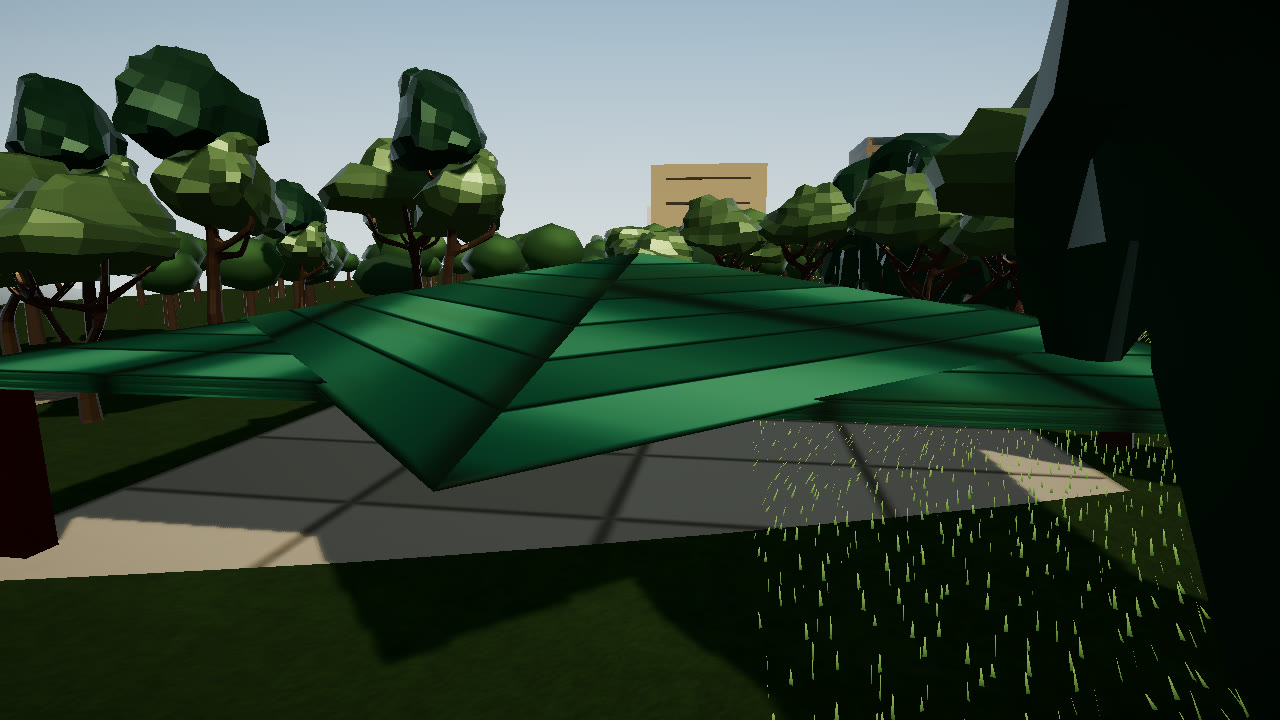
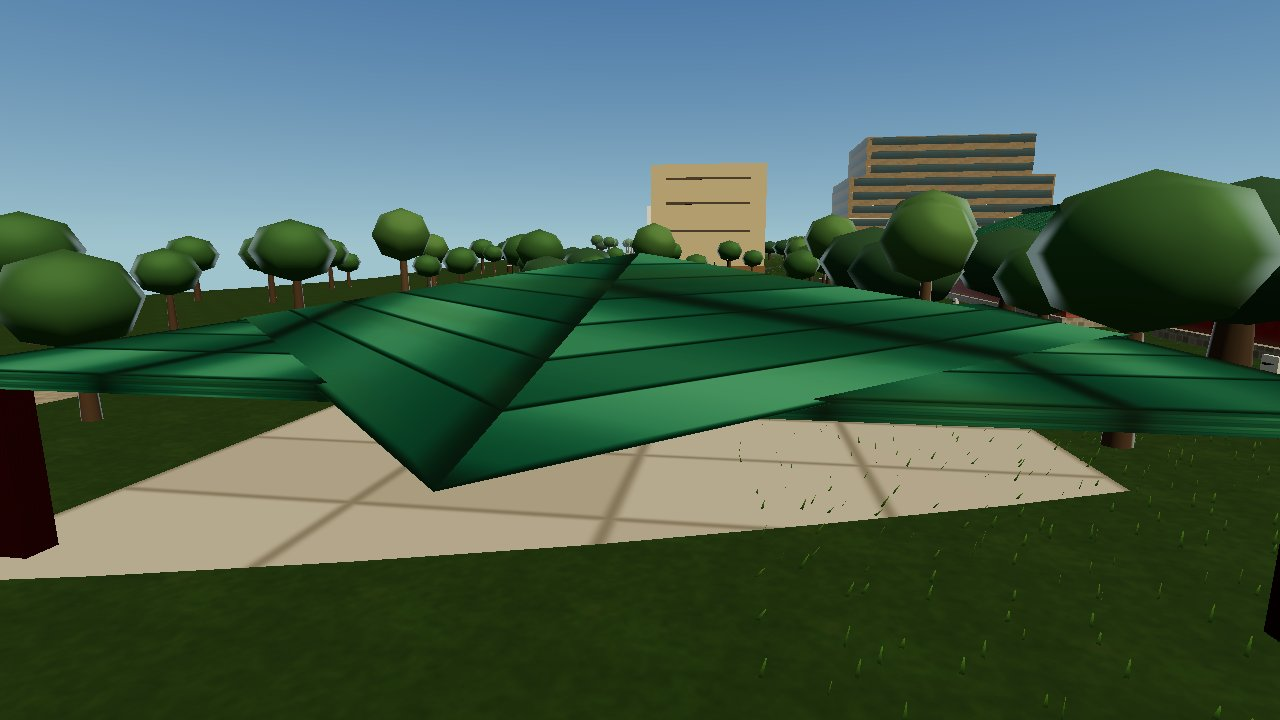
Record the open garden pavilion on this host.
The pavilion shot is from this machine. Court lines, wet colours, and the tree clearing stay.

diff --git a/docs/integration/HANDOFF.md b/docs/integration/HANDOFF.md
@@ -4,18 +4,18 @@
 
 ## 現在
 
-- 這次把五虎崗畫成兩塊有邊線、中線和球網的場，排球場有一圈邊線。接到 `origin/main` `9dd707e`。遊戲程式是 `27ceb69`。
-- 標線都在草皮裡面。1280×720 與 390×780 都看得到。雨後草皮仍較深，標線還在。樹仍在場外。標線尺寸仍是 estimated。
-- 跨系統路線在 `http://127.0.0.1:8148/` 通過：大門經驗 20、筆記 19；補給後經驗 44、筆記 21、學期期中；突襲小考 65→45；第二客戶端看到期中；`revision_conflict`；斷線時雲端經驗停在 47；登出 401。`pageErrors` 空。
-- PR #122 現在是 `2f7667b`。遊戲差是測試用的 `getCamera`、他們的七區路點腳本，以及窄螢幕互動鈕 `bottom: 176px`。觸控窄螢幕後面那條規則仍是 `100px`。路點本身已經在主遊戲裡。不要單獨合併，也不要帶進 `docs/full-integration`。
+- 這次把覺軒花園改成四根角柱和綠瓦頂，中間可以走。接到 `origin/main` `ebf0cde`。遊戲程式是 `80a8159`。
+- 碰撞只在柱子。另一筆覺軒仍是坡頂。亭子周圍 6 m 不種散佈的樹。1280×720 看得到紅柱、瓦頂和鋪面。外形仍是 estimated。球場標線留著。
+- 跨系統路線在 `http://127.0.0.1:8149/` 通過：大門經驗 20、筆記 19；補給後經驗 44、筆記 21、學期期中；突襲小考 65→45；第二客戶端看到期中；`revision_conflict`；斷線時雲端經驗停在 47；登出 401。`pageErrors` 空。
+- PR #122 現在是 `cca9e10`。新增的是他們的顧衡失敗選項腳本。遊戲差仍是測試用的 `getCamera` 和窄螢幕互動鈕。不要單獨合併，也不要帶進 `docs/full-integration`。
 
-## 本輪已驗證（綜合球場標線）
+## 本輪已驗證（覺軒花園）
 
-`node --test scripts/court-lines.test.mjs` 通過。`npm test` 312 通過。`node --experimental-transform-types scripts/integration-route.mjs` 走 `http://127.0.0.1:8148/`。幀時間是 SwiftShader。標線尺寸是 estimated。
+`node --test scripts/garden-pavilion.test.mjs` 通過。`npm test` 313 通過。`node --experimental-transform-types scripts/integration-route.mjs` 走 `http://127.0.0.1:8149/`。幀時間是 SwiftShader。亭子外形是 estimated。
 
 ## 下一步
 
-先 `git fetch`。標線已在這條整合分支，遊戲程式是 `27ceb69`。靜態產物是 `AdventureApp-DCYaPlp2.js`。PR #32 的 `1fc5887` 仍不合併。整合 PR 是 #149。來源 `06a75dc` 不是祖先，不要單獨合併 PR #135。不要單獨合併 PR #122。PR #147、#146、#144、#143、#142、#141、#140、#138、#139、#131、#137、#128、#133、#129、#110、#108、#107、#105、#102、#101、#99、#97、#96、#93、#91、#90、#88、#86、#85、#82、#80、#79、#77、#75、#73、#72、#70、#68、#67、#65、#63、#61、#59、#56、#54、#53、#51 的程式已經在更早的整合裡，也不要再單獨合併。下一項是涼亭（PR #145，`193f29d`），它改 `ContextStructures.tsx` 和植栽。然後是坡道欄杆（PR #132，`1dce114`）、海事博物館船首（PR #127，`d0fd98b`）、會文館（PR #111，`412b130`）、司令臺台面（PR #113，`f2750c7`）、低畫質行人（PR #115，`9672ff3`）、美術傳輸預算（PR #116，`9a3d594`）、宮燈大道四個時段（PR #118，`266e4b7`）、宮燈鏡頭（PR #121，`3ce5f17`）、路燈燈頭（PR #124，`2b45515`）。先看它們目前的 head，再各自整合，不要單獨合併。三角形仍用 `7507c59` 那次重測。
+先 `git fetch`。涼亭已接到這條整合分支，遊戲程式是 `80a8159`。靜態產物是 `AdventureApp-DzP7Xkfy.js`。PR #32 的 `1fc5887` 仍不合併。來源 `193f29d` 不是祖先，不要單獨合併 PR #145。不要單獨合併 PR #122。PR #149、#147、#146、#144、#143、#142、#141、#140、#138、#139、#135、#131、#137、#128、#133、#129、#110、#108、#107、#105、#102、#101、#99、#97、#96、#93、#91、#90、#88、#86、#85、#82、#80、#79、#77、#75、#73、#72、#70、#68、#67、#65、#63、#61、#59、#56、#54、#53、#51 的程式已經在更早的整合裡，也不要再單獨合併。下一項是小地圖課名（PR #148，`9f89d1c`），然後是坡道欄杆（PR #132，`1dce114`）、海事博物館船首（PR #127，`d0fd98b`）、會文館（PR #111，`412b130`）、司令臺台面（PR #113，`f2750c7`）、低畫質行人（PR #115，`9672ff3`）、美術傳輸預算（PR #116，`9a3d594`）、宮燈大道四個時段（PR #118，`266e4b7`）、宮燈鏡頭（PR #121，`3ce5f17`）、路燈燈頭（PR #124，`2b45515`）。先看它們目前的 head，再各自整合，不要單獨合併。三角形仍用 `7507c59` 那次重測。
 
 INT-01 維持不動。不要新增學期選擇，也不要做第二套獎勵帳。
 

diff --git a/docs/integration/STATUS.md b/docs/integration/STATUS.md
@@ -1,13 +1,13 @@
 # 整合狀態
 
-更新：2026-11-12。五虎崗綜合球場畫成兩塊有邊線、中線和球網的場。排球場有一圈邊線。標線尺寸仍是估計。雨後草皮仍會變暗。幀時間仍是 SwiftShader。
+更新：2026-11-12。覺軒花園改成四根角柱和綠瓦頂，中間可以走。另一筆覺軒仍是坡頂。外形仍是估計。幀時間仍是 SwiftShader。
 本文件只記實際程式、PR 與本輪驗收。不把 M1 或 M2 當成整款遊戲完成，也不以 PR 或文件數量估算完成率。
 
 ## 三條線
 
 | 線 | 目前成果 | 開放 PR | 狀態 |
 | --- | --- | --- | --- |
-| 美術與場景 | 五虎崗是兩塊有邊線和球網的場。排球場有邊線。雨後草皮仍會變暗。 | 來源 PR #135 `06a75dc`。整合 PR #149 | `merged` |
+| 美術與場景 | 覺軒花園是四根角柱和綠瓦頂，中間可以走。另一筆覺軒仍是坡頂。 | 來源 PR #145 `193f29d`。整合尚未開 PR | `verified` |
 | 後端 | 雲端存檔接受既有背包的 `loadout`、`gear`、隔離物品和手持設施，並拒絕白名單以外的欄位。沒有這些欄位的舊存檔仍可上傳。 | 來源 `a76918e`。整合 PR #144 | `merged` |
 | 內容 | 十二名虛構的教授與系主任可以在估計的崗位交談。跨學院的選擇會改後面的句子。獎勵仍進既有背包，而且只記一次。 | 來源 PR #131 `246eadf`。整合 PR #139 | `merged` |
 
@@ -15,15 +15,15 @@
 
 ## 本輪範圍
 
-五虎崗綜合球場是兩塊有邊線、中線和球網的場。排球場有一圈邊線。標線都在草皮裡面。1280×720 與 390×780 都看得到兩塊白線場，樹仍在場外。雨後草皮較深，標線還在。標線尺寸仍是 estimated。田徑場和停車場沒有這些線。
+覺軒花園是四根角柱和綠瓦頂，中間可以走，碰撞只在柱子。另一筆覺軒仍是坡頂。亭子周圍 6 m 不種散佈的樹。1280×720 看得到綠瓦頂、紅柱和鋪面。390×780 看得到瓦頂和鋪面。外形仍是 estimated。球場標線留著。
 
 ## 路線
 
 | 項目 | 狀態 |
 | --- | --- |
-| 已製作 | 五虎崗兩塊標線場，排球場一圈邊線 |
-| 已驗證 | 靜態頁 `http://127.0.0.1:8148/`。1280×720 與 390×780 看得到兩塊白線場。`npm test` 312 通過。跨系統路線在同一站，`pageErrors` 空 |
-| 已合併 | 是。遊戲程式 `27ceb69`。整合 PR #149。`main` 未受保護、沒有必須的 check |
+| 已製作 | 覺軒花園四根角柱、綠瓦頂，中間可走 |
+| 已驗證 | 靜態頁 `http://127.0.0.1:8149/`。1280×720 看得到紅柱、瓦頂和鋪面。`npm test` 313 通過。跨系統路線在同一站，`pageErrors` 空 |
+| 已合併 | 否。遊戲程式 `80a8159`。`main` 未受保護、沒有必須的 check |
 | 已部署 | 否 |
 
 ## 尚未完成的遊戲範圍

diff --git a/docs/integration/CONTRACTS.md b/docs/integration/CONTRACTS.md
@@ -70,7 +70,7 @@ URL 帶內容雜湊。幾何與 atlas 共享。卸載只走 `releaseArtInstance`
 
 教授與系主任也走這份存檔和既有 `grantQuestReward`。十二名都是虛構角色，崗位是門口外推的估計位置。同一個任務只付一次。`MAIN_INTEGRATION` 仍是 false。
 
-路燈中心若落在實體裡，會沿最近的一面推到牆外 1.2 m。圖書館名牌朝南，貼在南牆外側。燈位仍是 estimated。圖書館前的坡道從廣場升約 1.05 m 到台基，人走在這道坡上，坡面網格用同一個高度。坡度仍是 estimated。散佈的樹不種進球場、田徑場和停車場，外緣再留 3 m。植株位置仍是 estimated。沒有貼圖的球場、停車場和跑道在雨後把顏色乘小，亮度下降、粗糙度下降。晴天顏色不變。這些顏色比材質庫的濕灰還深，所以不把灰色混進去。不是實測日照。五虎崗綜合球場是兩塊有邊線、中線和球網的場，排球場有一圈邊線。標線都在草皮裡面。標線尺寸仍是 estimated。田徑場和停車場沒有這些線。
+路燈中心若落在實體裡，會沿最近的一面推到牆外 1.2 m。圖書館名牌朝南，貼在南牆外側。燈位仍是 estimated。圖書館前的坡道從廣場升約 1.05 m 到台基，人走在這道坡上，坡面網格用同一個高度。坡度仍是 estimated。散佈的樹不種進球場、田徑場和停車場，外緣再留 3 m。植株位置仍是 estimated。沒有貼圖的球場、停車場和跑道在雨後把顏色乘小，亮度下降、粗糙度下降。晴天顏色不變。這些顏色比材質庫的濕灰還深，所以不把灰色混進去。不是實測日照。五虎崗綜合球場是兩塊有邊線、中線和球網的場，排球場有一圈邊線。標線都在草皮裡面。標線尺寸仍是 estimated。田徑場和停車場沒有這些線。覺軒花園是四根角柱和綠瓦頂，中間可以走，碰撞只在柱子。另一筆覺軒仍是坡頂。亭子周圍 6 m 不種散佈的樹。外形仍是 estimated。
 
 同一條高畫質路線在遊戲程式 `7507c59` 的靜態頁重測：標題 1,204,683、戶外 1,562,527、戰鬥 1,495,745、返回 1,437,689，都低於 1.6 M。室內 46,548。幀時間是這台 SwiftShader，不是手機或 RTX 3060。手機圖示只改 CSS，沒有重測三角形。
 

diff --git a/docs/integration/VALIDATION.md b/docs/integration/VALIDATION.md
@@ -669,6 +669,14 @@ PR #122 的 head 在這輪又改到 `48b1ac6`。和 `main` 比，遊戲程式沒
 
 瀏覽器 `http://127.0.0.1:8148/`。1280×720 與 390×780 都看得到兩塊白線場。雨後草皮較深，標線還在。頁面無錯誤。同一站跨系統路線通過：大門經驗 20、筆記 19；補給後經驗 44、筆記 21、學期期中；突襲小考 65→45、經驗停在 44；存檔重載經驗 44、筆記 21、科系 `science-理學院-2`；revision 1；第二客戶端看到期中；`revision_conflict`；斷線時雲端經驗是 47；登出 401。`pageErrors` 空。
 
+## 覺軒花園（本輪）
+
+來源 `193f29d` 接到 `ebf0cde`。美術文件留到第 54 輪，這一輪記成第 55 輪。球場標線和雨後顏色留著。散佈的樹仍避開球場。
+
+覺軒花園是四根角柱和綠瓦頂，中間可以走，碰撞只在柱子。另一筆覺軒仍是坡頂。亭子周圍 6 m 不種散佈的樹。外形仍是 estimated。`npm run typecheck` 通過。`npm test` 313 通過。`npm run build:site` 通過，產物 `AdventureApp-DzP7Xkfy.js`。
+
+瀏覽器 `http://127.0.0.1:8149/`。1280×720 看得到綠瓦頂、紅柱和鋪面。390×780 看得到瓦頂和鋪面。頁面無錯誤。同一站跨系統路線通過：大門經驗 20、筆記 19；補給後經驗 44、筆記 21、學期期中；突襲小考 65→45、經驗停在 44；存檔重載經驗 44、筆記 21、科系 `science-理學院-2`；revision 1；第二客戶端看到期中；`revision_conflict`；斷線時雲端經驗是 47；登出 401。`pageErrors` 空。
+
 ## 本輪沒有驗的項目
 
 - 手機與真機上的雲端面板點擊。本輪在 Node 開發頁讀到面板文字，沒有在手機上操作
